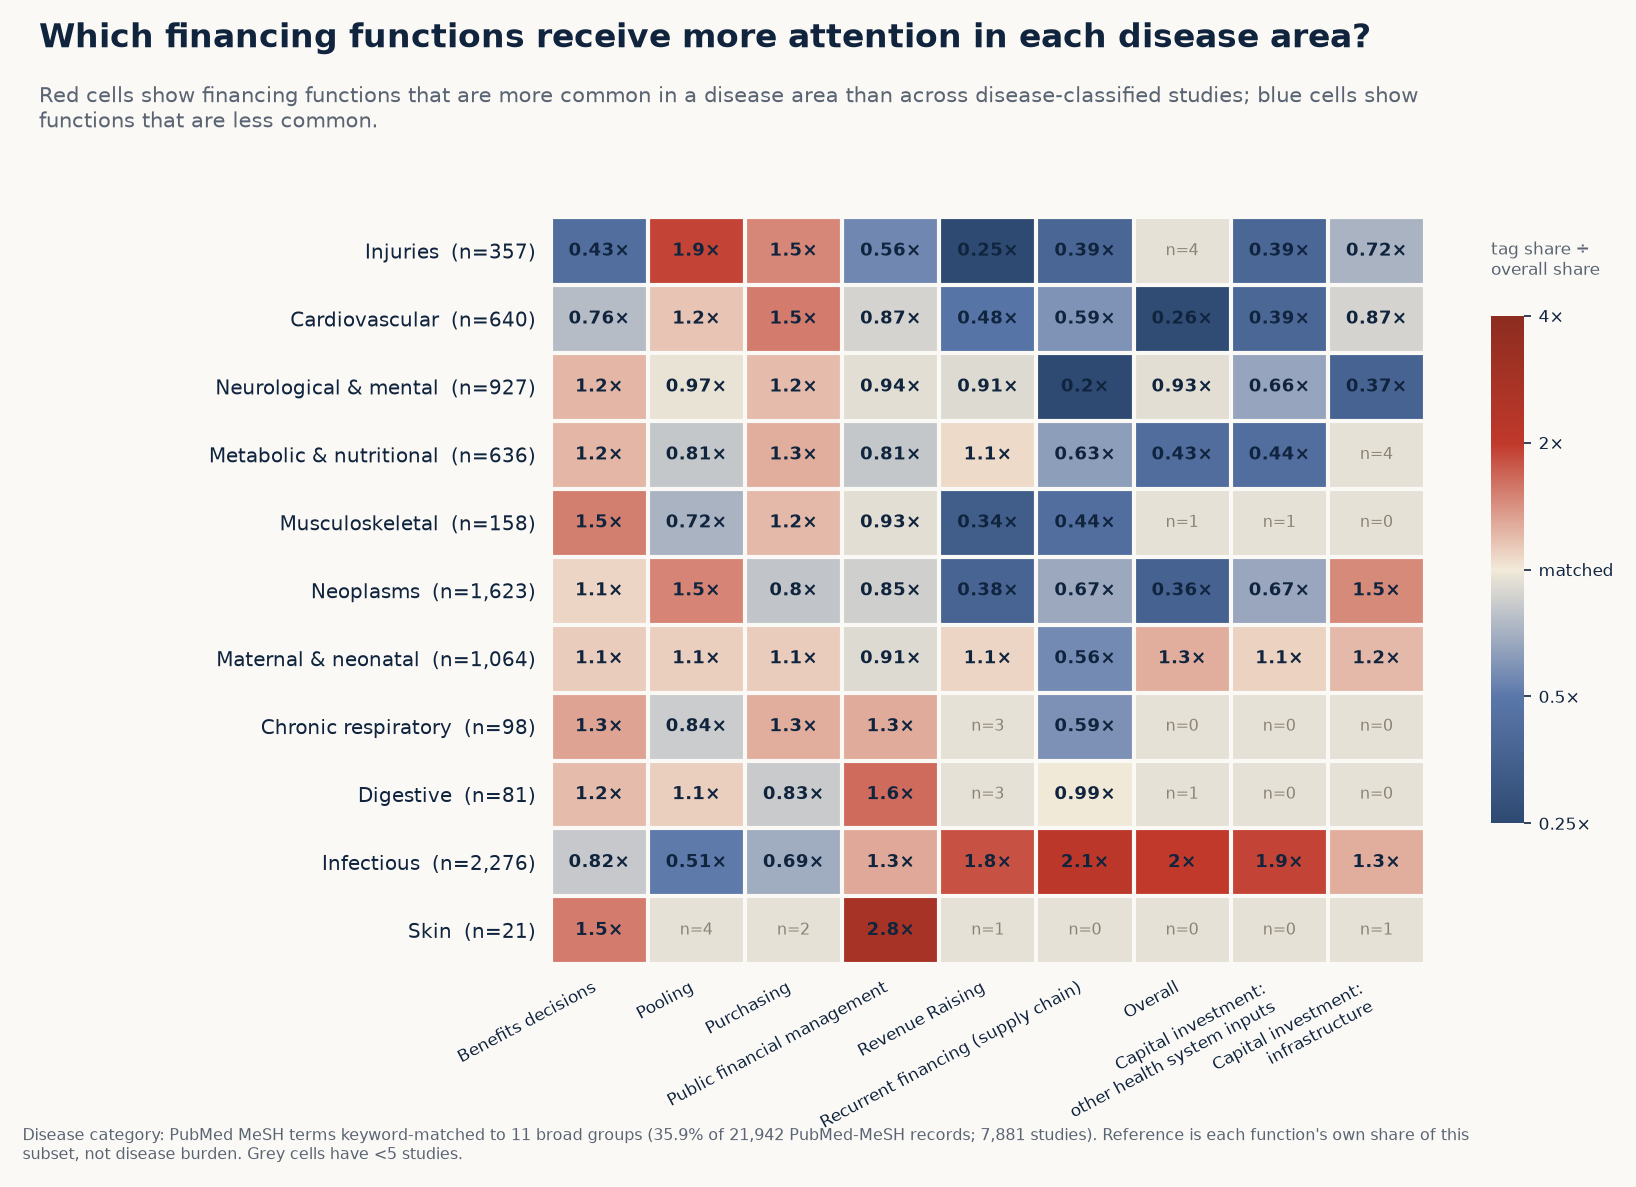
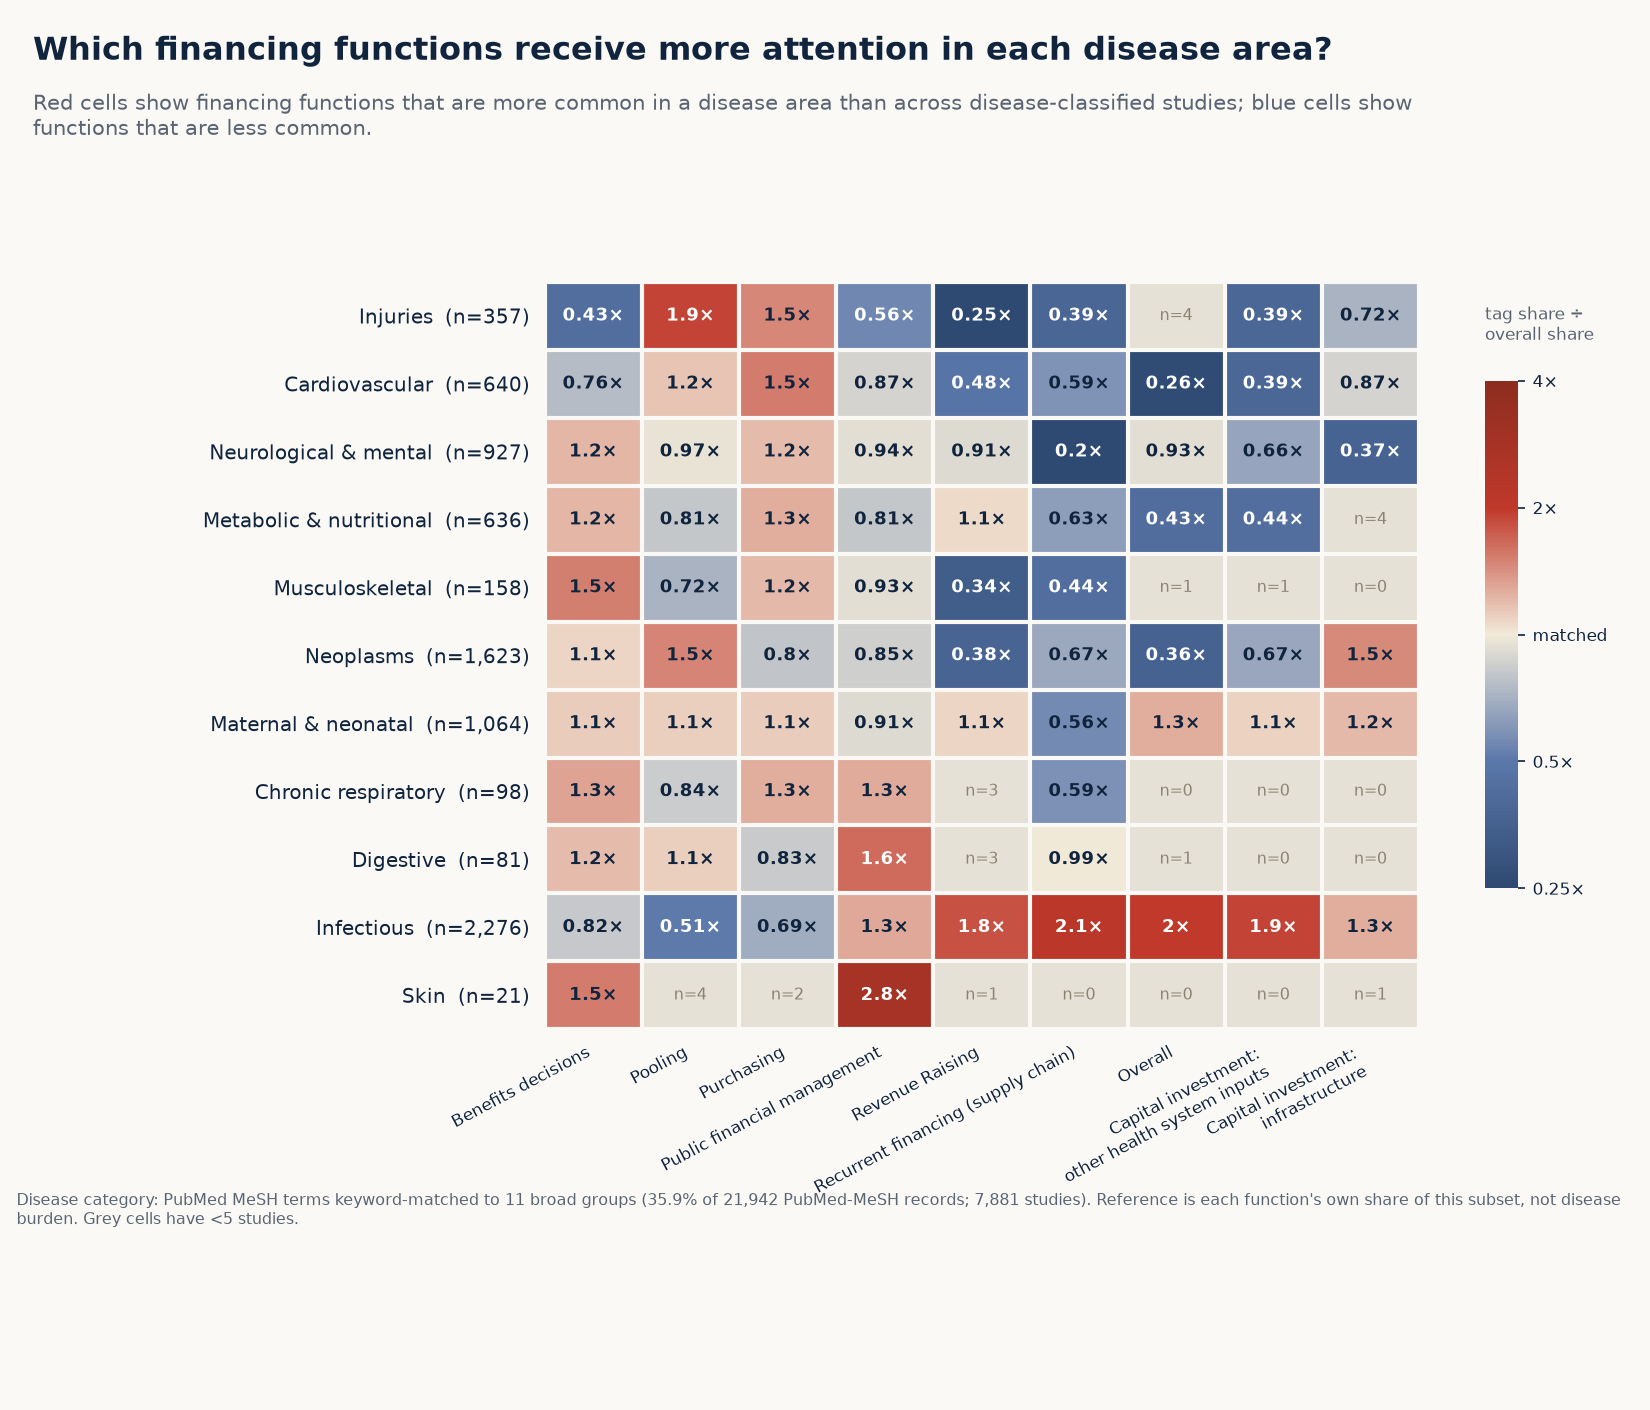
Improve text contrast on disease financing heatmap

Changed region(s): [[0.0, 0.187, 0.9664, 0.904], [0.0, 0.0, 0.8729, 0.1247], [0.0312, 0.904, 0.8729, 0.9975]]

diff --git a/docs/dex_hff/build_figures_v2_5.py b/docs/dex_hff/build_figures_v2_5.py
@@ -4007,8 +4007,13 @@ if have_taxonomy:
             if n < CELL_MIN:
                 ax.text(j, i, f"n={int(n)}", ha="center", va="center", fontsize=7.5, color="#8a8272")
             else:
+                cell_rgb = np.asarray(opp_cmap(opp_norm(log_grid[i, j]))[:3])
+                cell_linear = np.where(cell_rgb <= 0.04045, cell_rgb / 12.92,
+                                       ((cell_rgb + 0.055) / 1.055) ** 2.4)
+                cell_luminance = float(cell_linear @ [0.2126, 0.7152, 0.0722])
+                label_color = "white" if cell_luminance < 0.25 else INK
                 ax.text(j, i, f"{2 ** log_grid[i, j]:.2g}×", ha="center", va="center",
-                        fontsize=8.5, fontweight="bold", color=INK)
+                        fontsize=8.5, fontweight="bold", color=label_color)
     ax.set_xticks(np.arange(-0.5, len(opp_funcs), 1), minor=True)
     ax.set_yticks(np.arange(-0.5, len(disease_order), 1), minor=True)
     ax.grid(which="minor", color=PAPER, linewidth=2)
